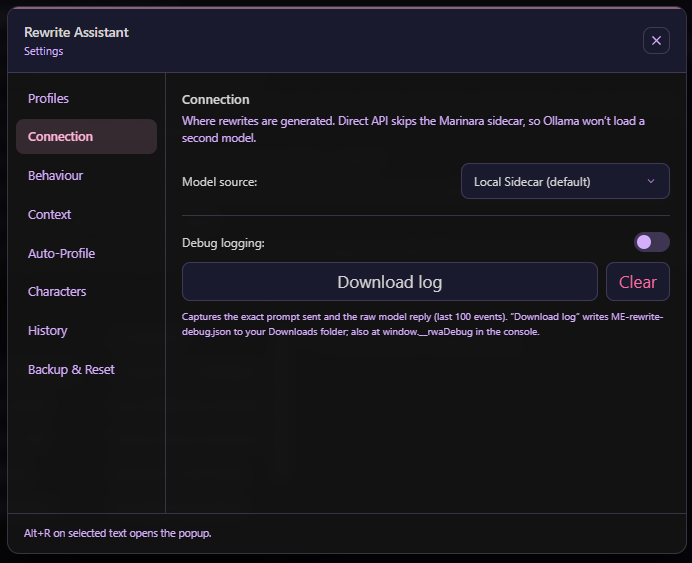
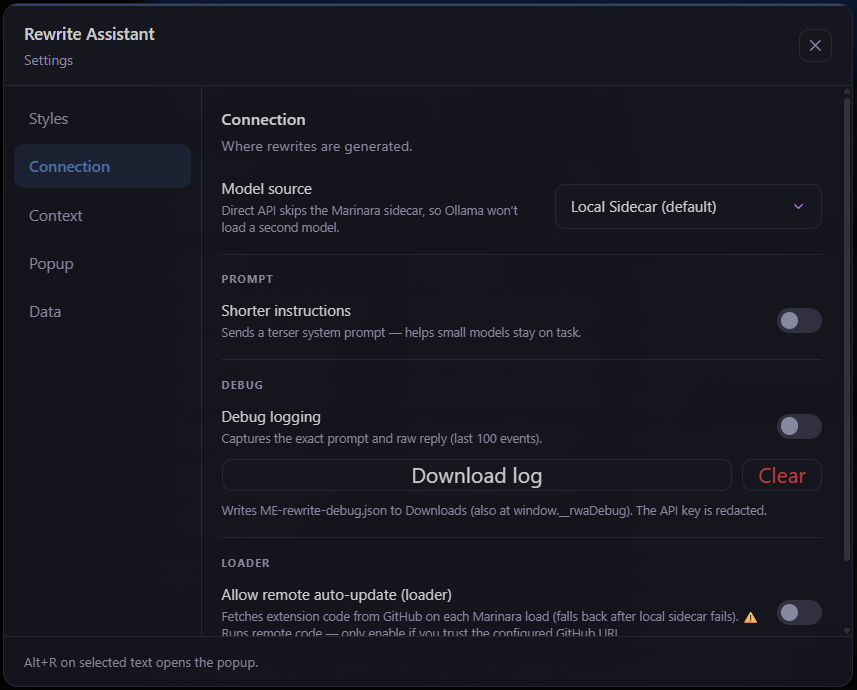
docs: refresh screenshots to current v5.0 UI
Replace the v4-era screenshots with current ones: popup token-cost panel,
result modal (diff + Copy), and the Styles / Context / Connection settings
panels. Update the README screenshots section accordingly.

diff --git a/README.md b/README.md
@@ -5,11 +5,13 @@ section of text in a message using an AI model. Select text, choose a mode, and 
 
 ## Screenshots
 
-| Rewrite popup | Custom prompt |
+| Rewrite popup | Result with diff |
 | --- | --- |
-| <img src="screenshots/rewrite-popup.png" width="380" alt="Rewrite popup with mode grid and length control"> | <img src="screenshots/custom-prompt.png" width="380" alt="Custom prompt dialog"> |
+| <img src="screenshots/popup.png" width="380" alt="Rewrite popup: token-cost panel, mode grid, length slider"> | <img src="screenshots/result.png" width="380" alt="Result modal with original/rewritten diff, token breakdown, and Copy"> |
 
-![Settings — Profiles](screenshots/settings-profiles.png)
+![Settings — Styles](screenshots/settings-styles.png)
+
+![Settings — Context](screenshots/settings-context.png)
 
 ![Settings — Connection](screenshots/settings-connection.png)
 
